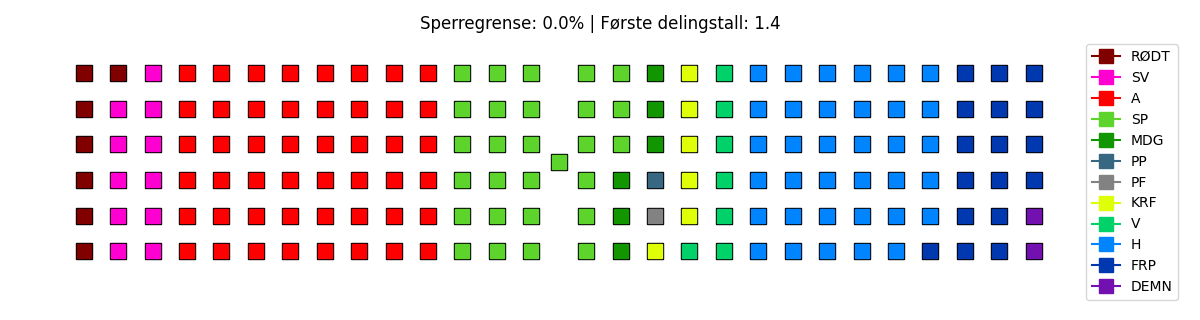
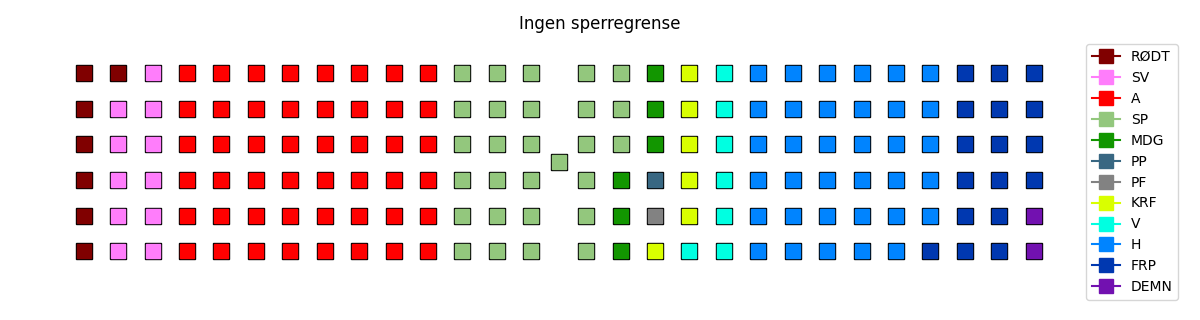
small changes and image updates

diff --git a/stlague.py b/stlague.py
@@ -174,7 +174,18 @@ def main():
             if party == "BLANKE":
                 continue
             electoral_district.add_votes(party, votes)
-            
+        
+        """
+        # this block stops parties with less than the leveling limit from gaining any seats at all (even direct district seats)
+        for party in parties:
+            if party == "BLANKE":
+                continue
+            party_votes_total_this = results_2021[results_2021["Partikode"] == party]
+            party_votes_total_this = party_votes_total_this.sum()
+            if party_votes_total_this["Antall stemmer totalt"]/(total_votes - number_of_blanks)*100 < args.levelinglimit:
+                electoral_district.remove_party(party)
+        """
+
         district_distribution = electoral_district.calculate()
         district_distributions[district_name] = district_distribution
 
@@ -491,7 +502,7 @@ def main():
             elif district_name == "Sør-Trøndelag" or district_name == "Nordland":
                 plt.text(location[0] + 0.5, location[1] + 0.25, district_name, fontfamily = "Cascadia Code")
             elif district_name == "Sogn og Fjordane":
-                plt.text(location[0] -1.6, location[1] + 0.25, district_name, fontfamily = "Cascadia Code")
+                plt.text(location[0] -1.6, location[1] + 0.35, district_name, fontfamily = "Cascadia Code")
             elif district_name == "Møre og Romsdal":
                 plt.text(location[0] -1.7, location[1] + 0.35, district_name, fontfamily = "Cascadia Code")
             elif district_name == "Vest-Agder":
@@ -523,7 +534,7 @@ def main():
                     rowsize = row_sizes[row]
                     angle_diff = 2*np.pi/(rowsize)
 
-                    radius = row*0.18
+                    radius = row*0.19
                     if party in parties_in_legend:
                         label = None
                     else:
